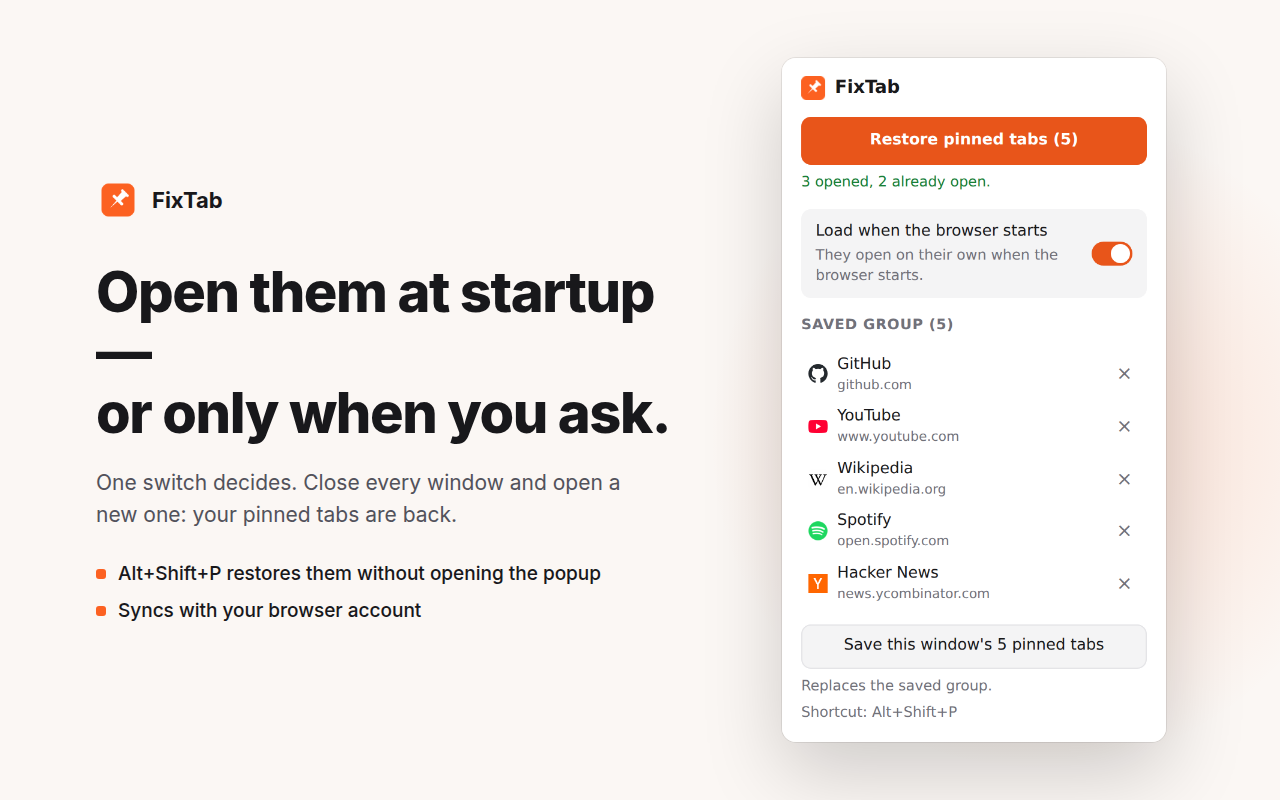
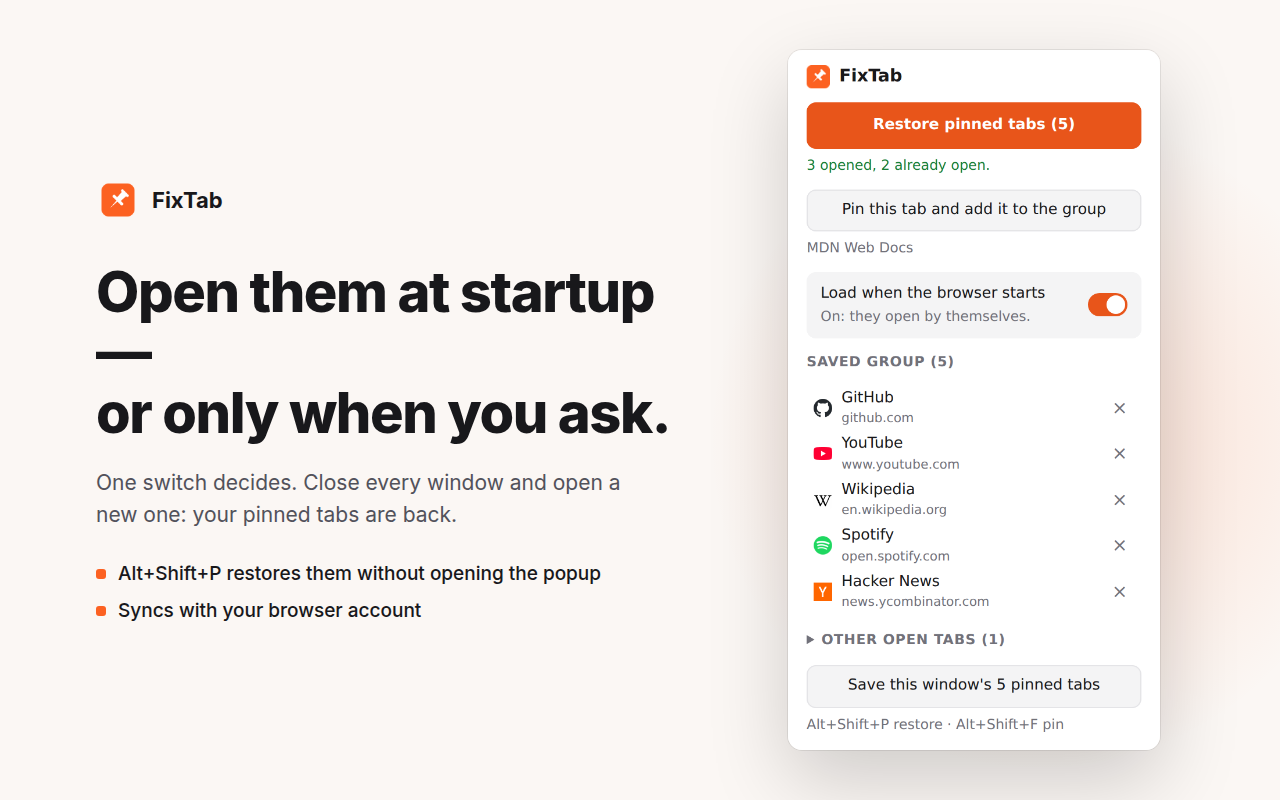
Documentación y capturas de la 0.3.0
READMEs, política de privacidad y ficha de la tienda con la función de fijar
y el permiso contextMenus; capturas regeneradas y una tercera para la tienda.

Changed region(s): [[0.5938, 0.0625, 0.9375, 0.9375]]

diff --git a/store/LISTING.md b/store/LISTING.md
@@ -1,6 +1,7 @@
 # Ficha de la Chrome Web Store
 
-**Publicada** (v0.2.0, aprobada el 30 de septiembre de 2026):
+**Publicada** (v0.2.0, aprobada el 30 de septiembre de 2026; la 0.3.0 agrega el permiso
+`contextMenus`, que hay que justificar al subirla):
 <https://chromewebstore.google.com/detail/fixtab/kfehbcfiobolppdoadgjohhbpoppikhf>
 
 ID de la extensión: `kfehbcfiobolppdoadgjohhbpoppikhf`
@@ -25,12 +26,12 @@ se agrega una traducción al español.
 
 ## Imágenes
 
-| Campo              | Archivo                                                  | Tamaño   |
-| ------------------ | -------------------------------------------------------- | -------- |
-| Ícono de la tienda | `extension/icons/icon128.png`                            | 128×128  |
-| Capturas (en)      | `store/en/screenshot-1.png`, `store/en/screenshot-2.png` | 1280×800 |
-| Capturas (es)      | `store/es/screenshot-1.png`, `store/es/screenshot-2.png` | 1280×800 |
-| Tile promocional   | `store/en/promo-small.png` (y `store/es/…`)              | 440×280  |
+| Campo              | Archivo                                         | Tamaño   |
+| ------------------ | ----------------------------------------------- | -------- |
+| Ícono de la tienda | `extension/icons/icon128.png`                   | 128×128  |
+| Capturas (en)      | `store/en/screenshot-1.png`, `-2.png`, `-3.png` | 1280×800 |
+| Capturas (es)      | `store/es/screenshot-1.png`, `-2.png`, `-3.png` | 1280×800 |
+| Tile promocional   | `store/en/promo-small.png` (y `store/es/…`)     | 440×280  |
 
 Todas son PNG de 24 bits sin transparencia, como pide la tienda. Se regeneran con `pnpm assets`.
 
@@ -59,6 +60,9 @@ Pin your tabs, open FixTab and press "Save this window's pinned tabs". That set 
 
 RESTORE
 Press "Restore pinned tabs" or use Alt+Shift+P. Missing tabs open pinned, loose tabs that are already open get pinned, the ones already there are left alone, and everything goes back to your saved order. Nothing is ever duplicated.
+
+PIN FROM FIXTAB
+One button pins the tab you are on and adds it to your group. You can do the same for any other open tab from the list, from the right-click menu, or with Alt+Shift+F. If you pinned tabs by hand, FixTab tells you they are not in the group yet and adds them with one click.
 
 AT STARTUP
 With "Load when the browser starts" on (the default), FixTab restores your group when the browser opens. That includes when the browser kept running in the background and you just open a new window. Turn it off to restore only when you ask.
@@ -93,6 +97,9 @@ Fija tus pestañas, abre FixTab y pulsa «Guardar las fijadas de esta ventana».
 RESTAURAR
 Pulsa «Restaurar fijadas» o usa Alt+Shift+P. Las que faltan se abren fijadas, las que ya están abiertas pero sueltas se fijan, las que ya estaban no se tocan, y todo vuelve al orden guardado. Nunca se duplica nada.
 
+FIJAR DESDE FIXTAB
+Un botón fija la pestaña en la que estás y la agrega a tu grupo. Puedes hacer lo mismo con cualquier otra pestaña abierta desde la lista, con el clic derecho o con Alt+Shift+F. Si fijaste pestañas a mano, FixTab te avisa que aún no están en el grupo y las agrega con un clic.
+
 AL INICIAR
 Con «Cargar al abrir el navegador» encendido (viene así), FixTab restaura tu grupo al abrir el navegador. Eso incluye cuando el navegador siguió corriendo en segundo plano y solo abres una ventana nueva. Apágalo para restaurar solo cuando lo pidas.
 
@@ -115,12 +122,16 @@ Disponible en inglés y español. Código abierto: https://github.com/reiterstah
 
 **Permission justifications:**
 
-- **tabs:** Needed to read the URLs and titles of the user's pinned tabs when they save their
-  group, and to open, pin and reorder tabs when restoring it. FixTab only reads tabs when the
-  user saves or restores.
+- **tabs:** Needed to read the URLs and titles of the tabs in the current window, so the user can save
+  their pinned tabs as a group or pin an open tab and add it to the group, and to open, pin and
+  reorder tabs when restoring it. Tabs are only read when the popup is open or the user triggers
+  an action.
 - **storage:** Stores the user's saved group of tabs and the "load at startup" setting in
   chrome.storage.sync, and a temporary list of tabs being loaded in chrome.storage.session.
 - **favicon:** Shows each saved site's icon in the popup using the browser's own favicon cache.
+
+- **contextMenus:** Adds a single item, "Pin this tab and add it to FixTab", to the right-click menu
+  so the user can pin the current tab and add it to their saved group without opening the popup.
 
 **Remote code:** No, I am not using remote code.
 

diff --git a/README.es.md b/README.es.md
@@ -45,8 +45,14 @@ FixTab recuerda ese conjunto por ti y lo pone de vuelta en su sitio.
 - **Cargar al abrir el navegador** (encendido por defecto). También funciona si el navegador
   siguió corriendo en segundo plano y solo abres una ventana nueva (macOS, o Windows con
   aplicaciones en segundo plano). Apágalo y FixTab solo restaura cuando se lo pides.
-- **Atajo de teclado.** <kbd>Alt</kbd>+<kbd>Shift</kbd>+<kbd>P</kbd> restaura sin abrir el popup. Se
-  cambia en `chrome://extensions/shortcuts`.
+- **Fijar desde FixTab.** Un botón fija la pestaña en la que estás y la agrega al grupo, así queda
+  recordada para la próxima vez. Una lista plegable hace lo mismo con cualquier otra pestaña
+  abierta, y si fijaste pestañas a mano FixTab te avisa que aún no están en el grupo y las agrega
+  con un clic.
+- **Atajos de teclado y clic derecho.** <kbd>Alt</kbd>+<kbd>Shift</kbd>+<kbd>P</kbd> restaura y
+  <kbd>Alt</kbd>+<kbd>Shift</kbd>+<kbd>F</kbd> fija la pestaña actual y la agrega al grupo, ambos
+  sin abrir el popup. «Fijar esta pestaña y agregarla a FixTab» también está en el menú del clic
+  derecho de la página. Los atajos se cambian en `chrome://extensions/shortcuts`.
 - **Sigue redirecciones.** Si `gmail.com` termina en `mail.google.com/mail/u/0/`, FixTab recuerda
   ambas y reconoce la pestaña de cualquiera de las dos formas.
 - **Se sincroniza con tu navegador.** El grupo se guarda en el almacenamiento sincronizado del
@@ -90,11 +96,12 @@ Si algo falla sin el popup abierto (al iniciar o con el atajo), el ícono de la 
 
 ## Permisos
 
-| Permiso   | Para qué                                                                                                                            |
-| --------- | ----------------------------------------------------------------------------------------------------------------------------------- |
-| `tabs`    | Leer las URLs y títulos de tus fijadas para guardarlas; abrir, fijar y mover pestañas para restaurarlas.                            |
-| `storage` | Guardar el grupo y el switch de inicio (`storage.sync`), y un mapa temporal de las pestañas que están cargando (`storage.session`). |
-| `favicon` | Mostrar el ícono de cada sitio en el popup, tomado de la caché de favicons del propio navegador.                                    |
+| Permiso        | Para qué                                                                                                                                  |
+| -------------- | ----------------------------------------------------------------------------------------------------------------------------------------- |
+| `tabs`         | Leer las URLs y títulos de las pestañas de la ventana actual para guardarlas o fijarlas; abrir, fijar y mover pestañas para restaurarlas. |
+| `storage`      | Guardar el grupo y el switch de inicio (`storage.sync`), y un mapa temporal de las pestañas que están cargando (`storage.session`).       |
+| `favicon`      | Mostrar el ícono de cada sitio en el popup, tomado de la caché de favicons del propio navegador.                                          |
+| `contextMenus` | Agregar «Fijar esta pestaña y agregarla a FixTab» al menú del clic derecho.                                                               |
 
 Sin permisos de host, sin content scripts, sin código remoto.
 

diff --git a/README.md b/README.md
@@ -43,8 +43,13 @@ FixTab remembers that set for you and puts it back where it belongs.
 - **Load when the browser starts** (on by default). It also works when the browser kept running
   in the background and you just open a new window (macOS, or Windows with background apps on).
   Turn it off and FixTab only restores when you ask.
-- **Keyboard shortcut.** <kbd>Alt</kbd>+<kbd>Shift</kbd>+<kbd>P</kbd> restores without opening the
-  popup. You can change it at `chrome://extensions/shortcuts`.
+- **Pin from FixTab.** One button pins the tab you are on and adds it to the group, so it is
+  remembered next time. A collapsible list does the same for any other open tab, and if you pinned
+  tabs by hand FixTab tells you they are not in the group yet and adds them with one click.
+- **Keyboard shortcuts and right-click menu.** <kbd>Alt</kbd>+<kbd>Shift</kbd>+<kbd>P</kbd>
+  restores and <kbd>Alt</kbd>+<kbd>Shift</kbd>+<kbd>F</kbd> pins the current tab and adds it to the
+  group, both without opening the popup. "Pin this tab and add it to FixTab" is also in the page's
+  right-click menu. Shortcuts can be changed at `chrome://extensions/shortcuts`.
 - **Follows redirects.** If `gmail.com` ends up at `mail.google.com/mail/u/0/`, FixTab remembers
   both and recognizes the tab either way.
 - **Syncs with your browser.** Your group is kept in the browser's own sync storage.
@@ -85,11 +90,12 @@ shows a red **!** and the reason on hover.
 
 ## Permissions
 
-| Permission | Why                                                                                                                      |
-| ---------- | ------------------------------------------------------------------------------------------------------------------------ |
-| `tabs`     | Read the URLs and titles of your pinned tabs to save them; open, pin and move tabs to restore them.                      |
-| `storage`  | Keep your group and the startup switch (`storage.sync`), and a short-lived map of tabs being loaded (`storage.session`). |
-| `favicon`  | Show each site's icon in the popup, taken from the browser's own favicon cache.                                          |
+| Permission     | Why                                                                                                                      |
+| -------------- | ------------------------------------------------------------------------------------------------------------------------ |
+| `tabs`         | Read the URLs and titles of the tabs in the current window to save or pin them; open, pin and move tabs to restore them. |
+| `storage`      | Keep your group and the startup switch (`storage.sync`), and a short-lived map of tabs being loaded (`storage.session`). |
+| `favicon`      | Show each site's icon in the popup, taken from the browser's own favicon cache.                                          |
+| `contextMenus` | Add the "Pin this tab and add it to FixTab" item to the right-click menu.                                                |
 
 No host permissions, no content scripts, no remote code.
 

diff --git a/PRIVACY.md b/PRIVACY.md
@@ -1,6 +1,6 @@
 # FixTab privacy policy
 
-_Last updated: September 29, 2026_ · [Español abajo](#política-de-privacidad-de-fixtab)
+_Last updated: September 30, 2026_ · [Español abajo](#política-de-privacidad-de-fixtab)
 
 FixTab does not collect, sell, share or transmit any personal data. It has no servers, no
 accounts, no analytics and no tracking, and it makes no network requests of its own.
@@ -22,10 +22,12 @@ them.
 
 ## Permissions
 
-- `tabs`: read the URLs and titles of your pinned tabs so you can save them, and open, pin and
-  move tabs to restore them.
+- `tabs`: read the URLs and titles of the tabs in the current window so you can save or pin them,
+  and open, pin and move tabs to restore them.
 - `storage`: keep the data described above.
 - `favicon`: show site icons from the browser's cache.
+- `contextMenus`: add one item to the right-click menu to pin the current tab and add it to your
+  group.
 
 ## Removing your data
 
@@ -40,7 +42,7 @@ Open an issue at <https://github.com/reiterstahl/fixtab/issues>.
 
 # Política de privacidad de FixTab
 
-_Última actualización: 29 de septiembre de 2026_
+_Última actualización: 30 de septiembre de 2026_
 
 FixTab no recopila, vende, comparte ni transmite datos personales. No tiene servidores, cuentas,
 analíticas ni rastreo, y no hace peticiones de red propias.
@@ -62,10 +64,12 @@ los descarga.
 
 ## Permisos
 
-- `tabs`: leer las URLs y títulos de tus pestañas fijadas para guardarlas, y abrir, fijar y mover
-  pestañas para restaurarlas.
+- `tabs`: leer las URLs y títulos de las pestañas de la ventana actual para guardarlas o fijarlas,
+  y abrir, fijar y mover pestañas para restaurarlas.
 - `storage`: guardar los datos descritos arriba.
 - `favicon`: mostrar los íconos de los sitios desde la caché del navegador.
+- `contextMenus`: agregar una opción al menú del clic derecho para fijar la pestaña actual y
+  sumarla a tu grupo.
 
 ## Borrar tus datos
 
